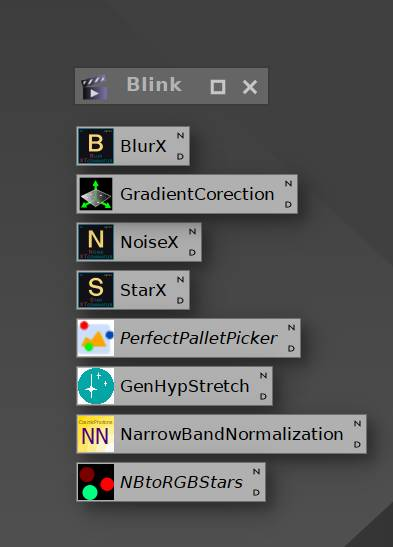
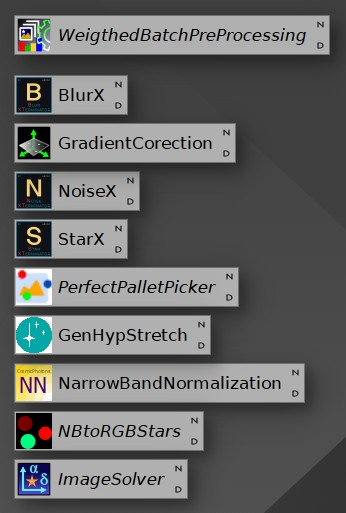
Tidy SHO tutorial edits and quieten noisy request logs
Tutorial (this session):
- Drop the Equipment and Process-Icons-menu tables, reword the intro
- Add WBPP and Combine Images to the process icon table, italicised as
  scripts, and update the "not kept as an icon" note to ImageSolver only
- Remove the now-dangling #equipment link from the sidebar TOC
- Fix two typos; refresh the process icon screenshot

Logging (from a parallel session, bundled here):
- RequestLogger: 404s from bots log at INFO, warn only for 401/403/429
  and 404s reached from our own pages; add handlers/middleware_test.go
- BOM proxy: walking back to an older frame is the expected path, so log
  those at DEBUG and warn once when the whole window is unavailable

diff --git a/templates/pages/tutorial-pixinsight-sho.html b/templates/pages/tutorial-pixinsight-sho.html
@@ -10,8 +10,7 @@
   <aside class="rail">
     <div class="rail-mark">Runbook · SHO · single panel</div>
     <p class="rail-title">PixInsight Standard SHO Workflow</p>
-    <nav><a class="lvl2" href="#equipment">Equipment</a>
-<a class="lvl1" href="#part-1-preparation">Part 1 — Preparation</a>
+    <nav><a class="lvl1" href="#part-1-preparation">Part 1 — Preparation</a>
 <a class="lvl2" href="#step-1-set-up-the-process-icon-workspace">1 · Set up the process icon workspace</a>
 <a class="lvl1" href="#part-2-frame-culling">Part 2 — Frame culling</a>
 <a class="lvl2" href="#step-2-blink">2 · Blink</a>
@@ -56,42 +55,8 @@
   <main><div class="doc">
     <div class="eyebrow">Runbook · SHO · single panel</div>
     <h1 class="title">PixInsight Standard SHO Workflow</h1>
-    <p>Single-panel narrowband processing, from WBPP through to the finished image. Companion to the mosaic runbook.</p>
+    <p>This is my standard narrowband (SHO) workflow, from WBPP through to the finished image. Companion to the mosaic runbook.</p>
     <dl class="meta"><dt>Companion document</dt><dd><a href="/tutorials/pixinsight-mosaic-workflow">PixInsight Mosaic Workflow</a> for multi-panel targets</dd><dt>Documented against</dt><dd>RCW 33, March 2026 · RCW 108, August 2026</dd><dt>PixInsight version</dt><dd>1.9.4 · WBPP 3.0.1</dd></dl>
-<hr />
-<h2 id="equipment">Equipment</h2>
-<table class="noheadings">
-<thead>
-<tr>
-<th></th>
-<th></th>
-</tr>
-</thead>
-<tbody>
-<tr>
-<td>Telescope</td>
-<td>AT12IN (300mm Newtonian), 1156.6 mm focal length</td>
-</tr>
-<tr>
-<td>Camera</td>
-<td>ZWO ASI2600MM Duo, 3.76 µm pixels, mono</td>
-</tr>
-<tr>
-<td>Mount</td>
-<td>Paramount ME</td>
-</tr>
-<tr>
-<td>Capture</td>
-<td>NINA</td>
-</tr>
-<tr>
-<td>Image scale</td>
-<td>0.671 ″/px</td>
-</tr>
-</tbody>
-</table>
-<p>Reference project size: RCW 33 was 245 lights at 300 s (80 H / 84 O / 81 S),
-20h 25m total, and took <strong>1h 08m</strong> through WBPP.</p>
 <hr />
 <h1 id="part-1-preparation">Part 1 — Preparation</h1>
 <h2 id="step-1-set-up-the-process-icon-workspace"><span class="stepno">1</span>Set up the process icon workspace</h2>
@@ -112,6 +77,11 @@ they're used</strong>, then save the set so it can be reloaded next session.</p>
 <td>Blink</td>
 <td>Blink</td>
 <td>before WBPP — frame culling</td>
+</tr>
+<tr>
+<td><em>WeightedBatchPreProcessing</em></td>
+<td>WeightedBatchPreProcessing</td>
+<td>linear</td>
 </tr>
 <tr>
 <td>BlurX</td>
@@ -153,6 +123,11 @@ they're used</strong>, then save the set so it can be reloaded next session.</p>
 <td>NB to RGB Stars</td>
 <td>non-linear</td>
 </tr>
+<tr>
+<td><em>CombineImages</em></td>
+<td>Combine Images</td>
+<td>non-linear</td>
+</tr>
 </tbody>
 </table>
 <p>Arranging them in execution order turns the workspace itself into the checklist —
@@ -160,44 +135,15 @@ you work down the column, and a skipped step is visible as an icon you never
 touched.</p>
 <p><em>(Italicised entries are scripts rather than processes, which is why they render
 differently.)</em></p>
-<p><strong>Not kept as icons:</strong> WBPP, Combine Images and ImageSolver, all launched from the
-Scripts menu. Worth considering adding ImageSolver — see the note at Step 22.</p>
+<p><strong>Not kept as an icon:</strong> ImageSolver, launched from the Scripts menu. Worth
+considering adding it — see the note at Step 22.</p>
 <h3 id="saving-the-set">Saving the set</h3>
 <p><strong>Workspace right-click → Process Icons → Save Process Icons…</strong></p>
 <figure><img src="/static/images/tutorials/s02-save-process-icons.jpg" alt="Saving process icons" loading="lazy"></figure>
 <p>This writes the whole set — including the parameter values baked into each
 instance — to a <code>.xpsm</code> file. <strong>Load Process Icons…</strong> brings them back in a new
-session, so tuned settings survive restarts.</p>
-<table>
-<thead>
-<tr>
-<th>Menu item</th>
-<th>Use</th>
-</tr>
-</thead>
-<tbody>
-<tr>
-<td>Load Process Icons…</td>
-<td>Restore a saved set at the start of a session</td>
-</tr>
-<tr>
-<td>Merge Process Icons…</td>
-<td>Add a second set without replacing the current one</td>
-</tr>
-<tr>
-<td>Save Selected Process Icons…</td>
-<td>Export just a few icons, e.g. to share</td>
-</tr>
-<tr>
-<td>Remove Process Icons…</td>
-<td>Clear the workspace</td>
-</tr>
-</tbody>
-</table>
-<blockquote>
-<p>Save the set again whenever you retune a parameter you want to keep — the file
-is a snapshot, not a live link.</p>
-</blockquote>
+session, so tuned settings survive restarts. You can also create a shortcut to the
+<code>.xpsm</code> file on your desktop for easy access.</p>
 <hr />
 <h1 id="part-2-frame-culling">Part 2 — Frame culling</h1>
 <h2 id="step-2-blink"><span class="stepno">2</span>Blink</h2>
@@ -256,7 +202,7 @@ bad-frame rejection, but culling by eye first is more reliable for obvious failu
 and keeps the measurement and weighting stages from working around junk.</p>
 <p>Filenames are readable in the list
 (<code>2026-03-05_21-59-42_H_-10.00_300.00s_0000</code>), so a run of consecutive bad frames
-shows up as a time block — usually cloud rather than a one-off.</p>
+shows up as a time block — for example, drift out of focus, cloud or tracking issues.</p>
 <hr />
 <h1 id="part-3-calibration-and-integration">Part 3 — Calibration and integration</h1>
 <h2 id="step-3-launch-and-reset-wbpp"><span class="stepno">3</span>Launch and reset WBPP</h2>
@@ -375,7 +321,7 @@ type_date_time_filter_temp_exposure_sequence
 </tr>
 </tbody>
 </table>
-<p><strong>This is the last cheap checkpoint.</strong> Confirm the filter count (three rows, not
+<p>Confirm the filter count (three rows, not
 more), that frame counts match the sessions, and that dimensions and exposure are
 consistent. For a mosaic you'd see six rows — one per filter × panel.</p>
 <h2 id="step-8-run"><span class="stepno">8</span>Run</h2>

diff --git a/handlers/weather.go b/handlers/weather.go
@@ -12,6 +12,10 @@ var bomClient = &http.Client{
 	Timeout: 10 * time.Second,
 }
 
+// bomFrameAttempts is how many half-hourly frames back the proxy will look for
+// a published image before giving up.
+const bomFrameAttempts = 6
+
 func HandleWeather(w http.ResponseWriter, r *http.Request) {
 	Render(w, "weather.html", PageData{
 		CanonicalURL: "https://deepspaceplace.com/weather",
@@ -39,7 +43,15 @@ func HandleBOMProxy(w http.ResponseWriter, r *http.Request) {
 
 	now := time.Now().UTC()
 
-	for i := 0; i < 6; i++ {
+	// BOM publishes each frame several minutes after its nominal timestamp, so
+	// the newest half-hour slot is normally still missing and the one before it
+	// serves. Walking back until a frame exists is the expected path, not a
+	// fault: misses log at DEBUG, and only running out of frames is worth a
+	// warning.
+	var lastErr error
+	lastStatus := 0
+
+	for i := 0; i < bomFrameAttempts; i++ {
 		ts := now.Add(time.Duration(-i*30) * time.Minute)
 		minute := (ts.Minute() / 30) * 30
 		ts = time.Date(ts.Year(), ts.Month(), ts.Day(), ts.Hour(), minute, 0, 0, time.UTC)
@@ -54,7 +66,8 @@ func HandleBOMProxy(w http.ResponseWriter, r *http.Request) {
 
 		resp, err := bomClient.Do(req)
 		if err != nil {
-			slog.Warn("BOM fetch error", "url", url, "error", err)
+			lastErr = err
+			slog.Debug("BOM frame fetch failed, trying older frame", "url", url, "error", err)
 			continue
 		}
 
@@ -67,9 +80,15 @@ func HandleBOMProxy(w http.ResponseWriter, r *http.Request) {
 			resp.Body.Close()
 			return
 		}
-		slog.Warn("BOM returned non-200", "url", url, "status", resp.StatusCode)
+		lastStatus = resp.StatusCode
+		slog.Debug("BOM frame not published yet, trying older frame", "url", url, "status", resp.StatusCode)
 		resp.Body.Close()
 	}
 
+	// Every frame in the window was missing -- BOM is genuinely unreachable or
+	// has changed its URL scheme, and the weather page is showing broken images.
+	slog.Warn("BOM satellite unavailable, no published frame in window",
+		"type", imageType, "attempts", bomFrameAttempts,
+		"last_status", lastStatus, "last_error", lastErr)
 	http.Error(w, "Failed to fetch BOM satellite image", http.StatusBadGateway)
 }

diff --git a/handlers/middleware_test.go b/handlers/middleware_test.go
@@ -1,0 +1,60 @@
+package handlers
+
+import (
+	"log/slog"
+	"net/http"
+	"net/http/httptest"
+	"testing"
+)
+
+// TestLevelFor is the regression guard for a real incident: every 404 used to
+// log at WARN, and background scanning of a public site kept monitor's app log
+// permanently full of warnings nobody could act on. Keep bot 404s at INFO.
+func TestLevelFor(t *testing.T) {
+	cases := []struct {
+		name    string
+		status  int
+		referer string
+		want    slog.Level
+	}{
+		{"server error", 500, "", slog.LevelError},
+		{"bad gateway", 502, "", slog.LevelError},
+		{"scanner 404", 404, "", slog.LevelInfo},
+		{"404 linked from elsewhere", 404, "https://example.com/list", slog.LevelInfo},
+		{"404 from our own page", 404, "https://deepspaceplace.com/images", slog.LevelWarn},
+		{"404 from www", 404, "https://www.deepspaceplace.com/images", slog.LevelWarn},
+		{"failed admin login", 401, "", slog.LevelWarn},
+		{"forbidden", 403, "", slog.LevelWarn},
+		{"rate limited", 429, "", slog.LevelWarn},
+		{"bad request", 400, "", slog.LevelInfo},
+		{"ok", 200, "", slog.LevelInfo},
+		{"redirect", 301, "", slog.LevelInfo},
+	}
+
+	for _, tc := range cases {
+		t.Run(tc.name, func(t *testing.T) {
+			r := httptest.NewRequest(http.MethodGet, "https://deepspaceplace.com/nope", nil)
+			r.Host = "deepspaceplace.com"
+			if tc.referer != "" {
+				r.Header.Set("Referer", tc.referer)
+			}
+			if got := levelFor(tc.status, r); got != tc.want {
+				t.Errorf("levelFor(%d, referer=%q) = %v, want %v",
+					tc.status, tc.referer, got, tc.want)
+			}
+		})
+	}
+}
+
+// TestIsInternalRefererIgnoresGarbage makes sure an unparseable Referer from a
+// hostile client cannot panic or be mistaken for one of our own pages.
+func TestIsInternalRefererIgnoresGarbage(t *testing.T) {
+	for _, ref := range []string{"://", "not a url", "http://[::1", "\x00"} {
+		r := httptest.NewRequest(http.MethodGet, "https://deepspaceplace.com/nope", nil)
+		r.Host = "deepspaceplace.com"
+		r.Header.Set("Referer", ref)
+		if isInternalReferer(r) {
+			t.Errorf("isInternalReferer(%q) = true, want false", ref)
+		}
+	}
+}

diff --git a/handlers/middleware.go b/handlers/middleware.go
@@ -3,6 +3,7 @@ package handlers
 import (
 	"log/slog"
 	"net/http"
+	"net/url"
 	"strings"
 	"time"
 )
@@ -27,18 +28,49 @@ func (r *statusRecorder) Unwrap() http.ResponseWriter {
 	return r.ResponseWriter
 }
 
+// levelFor picks the log level for a completed request.
+//
+// A public site is scanned around the clock, so a 404 for something that was
+// never here is ordinary access-log traffic, not a warning -- logging it at
+// WARN buries the handful of requests that do need attention. What still earns
+// a warning is a client being refused (401/403/429) and a 404 reached from one
+// of our own pages, which means a broken internal link.
+func levelFor(status int, r *http.Request) slog.Level {
+	switch {
+	case status >= 500:
+		return slog.LevelError
+	case status == http.StatusUnauthorized,
+		status == http.StatusForbidden,
+		status == http.StatusTooManyRequests:
+		return slog.LevelWarn
+	case status == http.StatusNotFound && isInternalReferer(r):
+		return slog.LevelWarn
+	default:
+		return slog.LevelInfo
+	}
+}
+
+// isInternalReferer reports whether the request was linked from one of our own
+// pages, as opposed to typed, crawled or probed.
+func isInternalReferer(r *http.Request) bool {
+	ref := r.Referer()
+	if ref == "" {
+		return false
+	}
+	u, err := url.Parse(ref)
+	if err != nil {
+		return false
+	}
+	return u.Host == r.Host || strings.TrimPrefix(u.Host, "www.") == "deepspaceplace.com"
+}
+
 func RequestLogger(next http.Handler) http.Handler {
 	return http.HandlerFunc(func(w http.ResponseWriter, r *http.Request) {
 		start := time.Now()
 		rec := &statusRecorder{ResponseWriter: w, status: 200}
 		next.ServeHTTP(rec, r)
-		level := slog.LevelInfo
-		if rec.status >= 500 {
-			level = slog.LevelError
-		} else if rec.status >= 400 {
-			level = slog.LevelWarn
-		}
-		slog.Log(r.Context(), level, r.Method+" "+r.RequestURI, "status", rec.status, "duration", time.Since(start))
+		slog.Log(r.Context(), levelFor(rec.status, r), r.Method+" "+r.RequestURI,
+			"status", rec.status, "duration", time.Since(start))
 	})
 }
 
